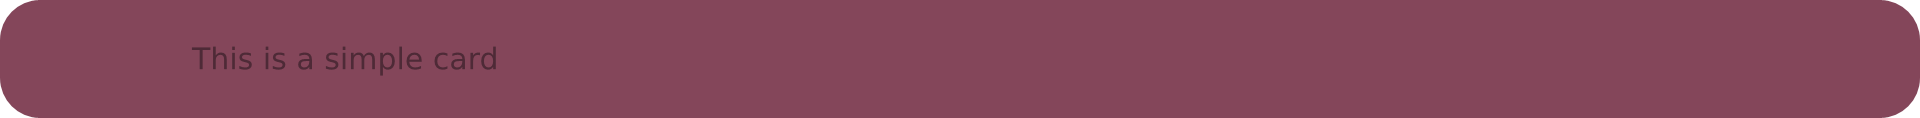
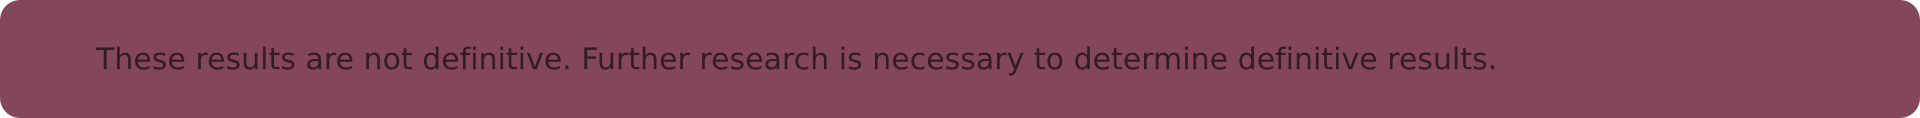
Changed some test and example stuff

diff --git a/test.py b/test.py
@@ -23,10 +23,11 @@ def simple():
     Slightly rounded corners
     Baground color maroon-ish
     35% y margin
+    5% x margin
     """
-    test_card = cards.Card('example/simple.png', margin_y=35, border_radius=40, bg_color=(0.4, 0.1, 0.2, 0.8))
+    test_card = cards.Card('example/simple.png', margin_x=5, margin_y=35, border_radius=20, bg_color=(0.4, 0.1, 0.2, 0.8))
     
-    body = fields.TextField('This is a simple card', fonts['dejavusans'], 30, font_color=(0, 0, 0, 0.4))
+    body = fields.TextField('These results are not definitive. Further research is necessary to determine definitive results.', fonts['dejavusans'], 30, font_color=(0, 0, 0, 0.6))
 
     test_card.fields = [body]
 
